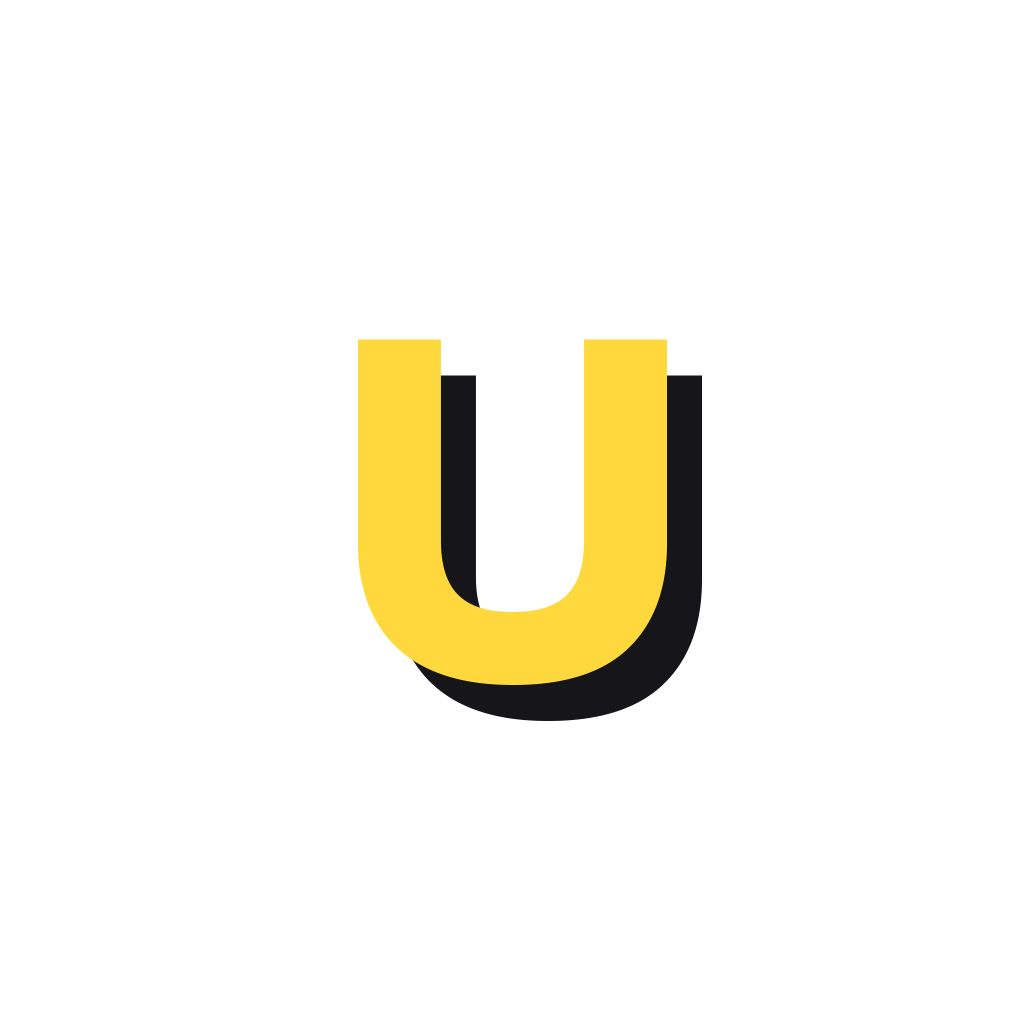
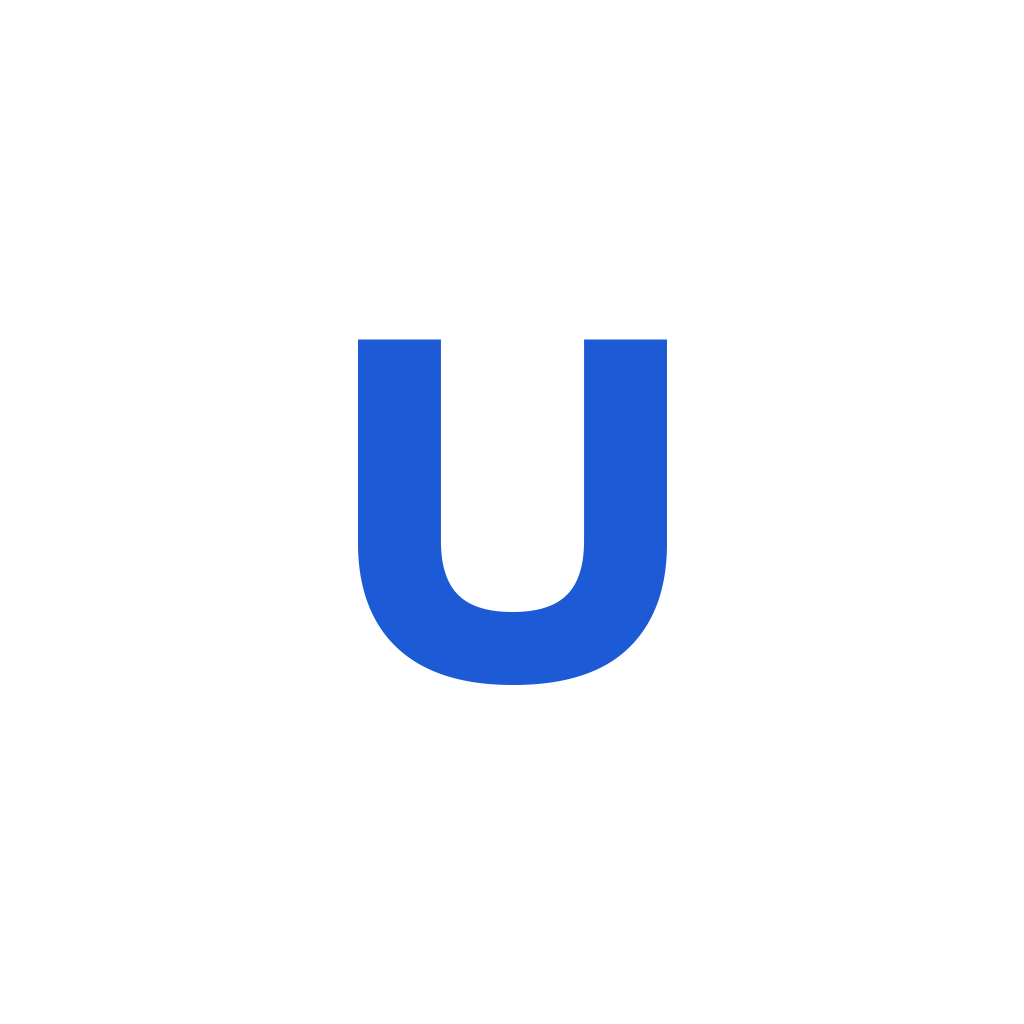
Ícono: U azul (color principal) sobre blanco
Reemplaza la U amarilla sobre azul al quitar el amarillo de la app. Fondo
blanco también en el ícono adaptable de Android y la pantalla de carga.

Claude-Session: https://claude.ai/code/session_01NtxD8ua1YLWhxfHFZXEkrP

Changed region(s): [[0.3438, 0.3125, 0.6875, 0.7188]]

diff --git a/scripts/generar_icono.py b/scripts/generar_icono.py
@@ -6,7 +6,8 @@ propuestas, y una hoja para compararlas.
     assets/icono/propuesta_c.png   U azul sobre blanco con un punto amarillo (una parada)
     assets/icono/comparar.png      las tres juntas, en tamaño de ícono y en pequeño
 
-Y con la elegida (A) genera los íconos que usa la app: assets/icon.png,
+Y genera los íconos que usa la app con el ícono final (U azul sobre
+blanco, assets/icono/final.png): assets/icon.png,
 favicon.png, android-icon-{foreground,background,monochrome}.png y
 splash-icon.png.
 
@@ -92,18 +93,27 @@ def capa_u(color, shadow, size_ratio) -> Image.Image:
     return img
 
 
+def icono_final() -> Image.Image:
+    """U del color principal (azul) sobre blanco, sin sombra: el look moderno."""
+    img = Image.new("RGB", (SIZE, SIZE), WHITE)
+    draw_u(img, BLUE, None)
+    return img
+
+
 def iconos_finales() -> None:
-    """Ícono elegido: propuesta A (Emily, 2026-10-10)."""
+    """Ícono elegido (Emily, 2026-10-11): U azul sobre blanco. Reemplaza la
+    propuesta A (U amarilla sobre azul) al quitar el amarillo de la app."""
     assets = ROOT / "assets"
-    icon = propuesta_a()
+    icon = icono_final()
     icon.save(assets / "icon.png")
+    icon.save(OUT / "final.png")
     icon.resize((48, 48), Image.LANCZOS).save(assets / "favicon.png")
     # Android adaptable: cada celular recorta con su forma (círculo, gota...)
     # y solo garantiza el centro (~66%), por eso la U va más pequeña.
-    capa_u(YELLOW, INK, 0.5).save(assets / "android-icon-foreground.png")
-    Image.new("RGB", (SIZE, SIZE), BLUE).save(assets / "android-icon-background.png")
+    capa_u(BLUE, None, 0.5).save(assets / "android-icon-foreground.png")
+    Image.new("RGB", (SIZE, SIZE), WHITE).save(assets / "android-icon-background.png")
     capa_u(WHITE, None, 0.5).save(assets / "android-icon-monochrome.png")  # íconos temáticos (Android 13+)
-    capa_u(YELLOW, INK, 0.62).save(assets / "splash-icon.png")
+    capa_u(BLUE, None, 0.62).save(assets / "splash-icon.png")
 
 
 def main() -> None:
@@ -113,7 +123,7 @@ def main() -> None:
         icon.save(OUT / f"propuesta_{name.lower()}.png")
     comparar(icons).save(OUT / "comparar.png")
     iconos_finales()
-    print(f"Propuestas en {OUT}; ícono A instalado en assets/")
+    print(f"Propuestas en {OUT}; ícono final instalado en assets/")
 
 
 if __name__ == "__main__":
